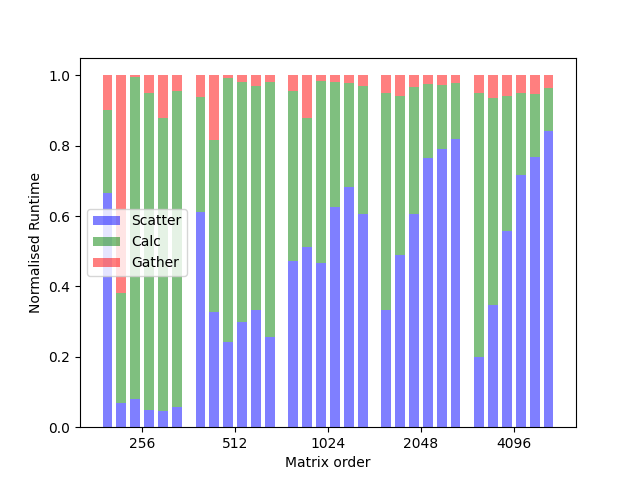
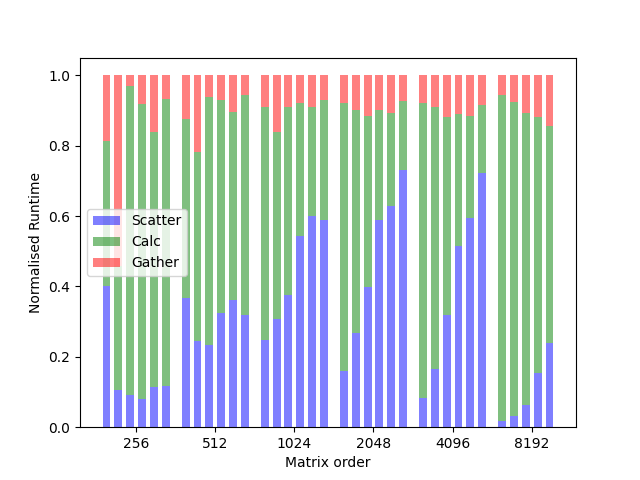
Updating MPI timings and Figures

diff --git a/TesterFiles/MPI/Lapack/MatrixMult_MPI_SGEMM.py b/TesterFiles/MPI/Lapack/MatrixMult_MPI_SGEMM.py
@@ -36,6 +36,9 @@ count_B = [len_j*mat_size for _ in range(size)]
 displ_A = [len_i*mat_size * (factor * list_rank // pars_i) for list_rank in range(size)]
 displ_B = [len_j*mat_size * (list_rank % pars_j) for list_rank in range(size)]
 
+sub_mat_A = np.zeros((len_i,mat_size),dtype=np.float32)
+sub_mat_B = np.zeros((len_j,mat_size),dtype=np.float32)
+
 comm.Scatterv([mat_A,count_A,displ_A,MPI.FLOAT],sub_mat_A,root=0)
 comm.Scatterv([trans_mat_B,count_B,displ_B,MPI.FLOAT],sub_mat_B,root=0)
 
@@ -45,10 +48,20 @@ sub_mat_C = FB.sgemm(alpha=1.0, a=sub_mat_A, b=sub_mat_B, trans_b=True)
 
 calc_finish = MPI.Wtime()
 
-res_list = comm.gather(mat_C,root=0)
+if rank == 0:
+    mat_C = np.zeros(mat_size*mat_size,dtype=np.float32)
+else:
+    mat_C = np.zeros(0,dtype=np.float32)
+
+count_C = [len_i*len_j for _ in range(size)]
+displ_C = [len_i*len_j*list_rank for list_rank in range(size)]
+sub_mat_C = np.ascontiguousarray(sub_mat_C, dtype=np.float32)
+comm.Gatherv(sub_mat_C,[mat_C,count_C,displ_C,MPI.FLOAT],root=0)
 
 if rank == 0:
-    res = np.vstack( np.split( np.concatenate(res_list,axis=1) , pars_i, axis=1) )
+    mat_C = np.split(mat_C, size, axis=0)
+    mat_C = np.apply_along_axis(func1d=np.reshape, axis=1, arr=mat_C, newshape=(len_i,len_j) )
+    mat_C = np.vstack( np.split( np.concatenate(mat_C,axis=1) , pars_i, axis=1) )
 
 total_finish = MPI.Wtime()
 

diff --git a/TesterFiles/MPI/Gen_MPI_graphs.py b/TesterFiles/MPI/Gen_MPI_graphs.py
@@ -48,6 +48,7 @@ def main():
     norm_pkl_list = ["scatter", "gather"]
     norm_index = 0
     for func_name in func_list:
+        print(f"\n{func_name}")
         for speedup_pkl_name in speedup_pkl_list:
             print(f"\n\n{speedup_pkl_name}")
             time_df = read_df_pickle(f"{func_name}/Time_dfs/{speedup_pkl_name}_df.pkl")
